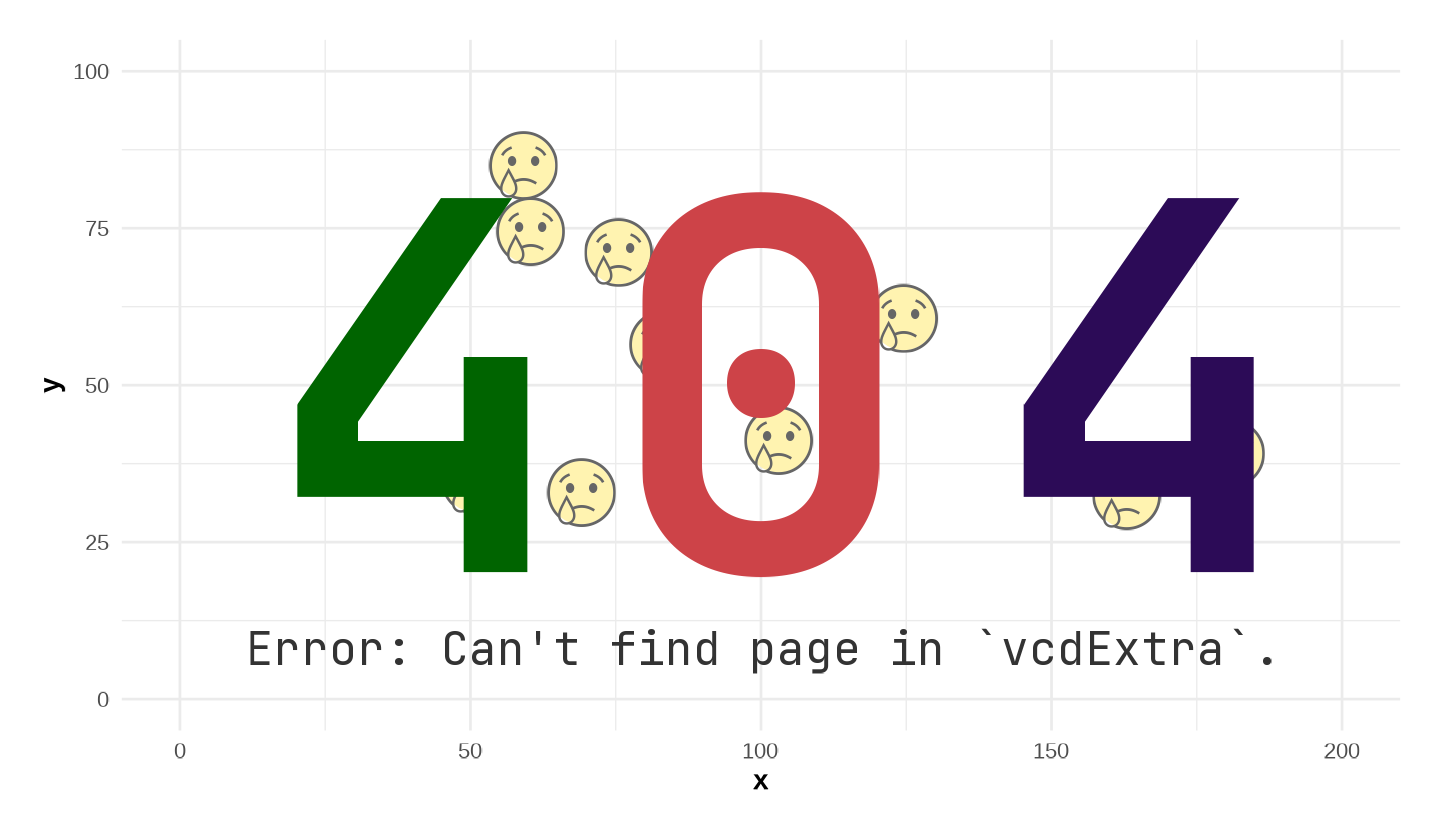
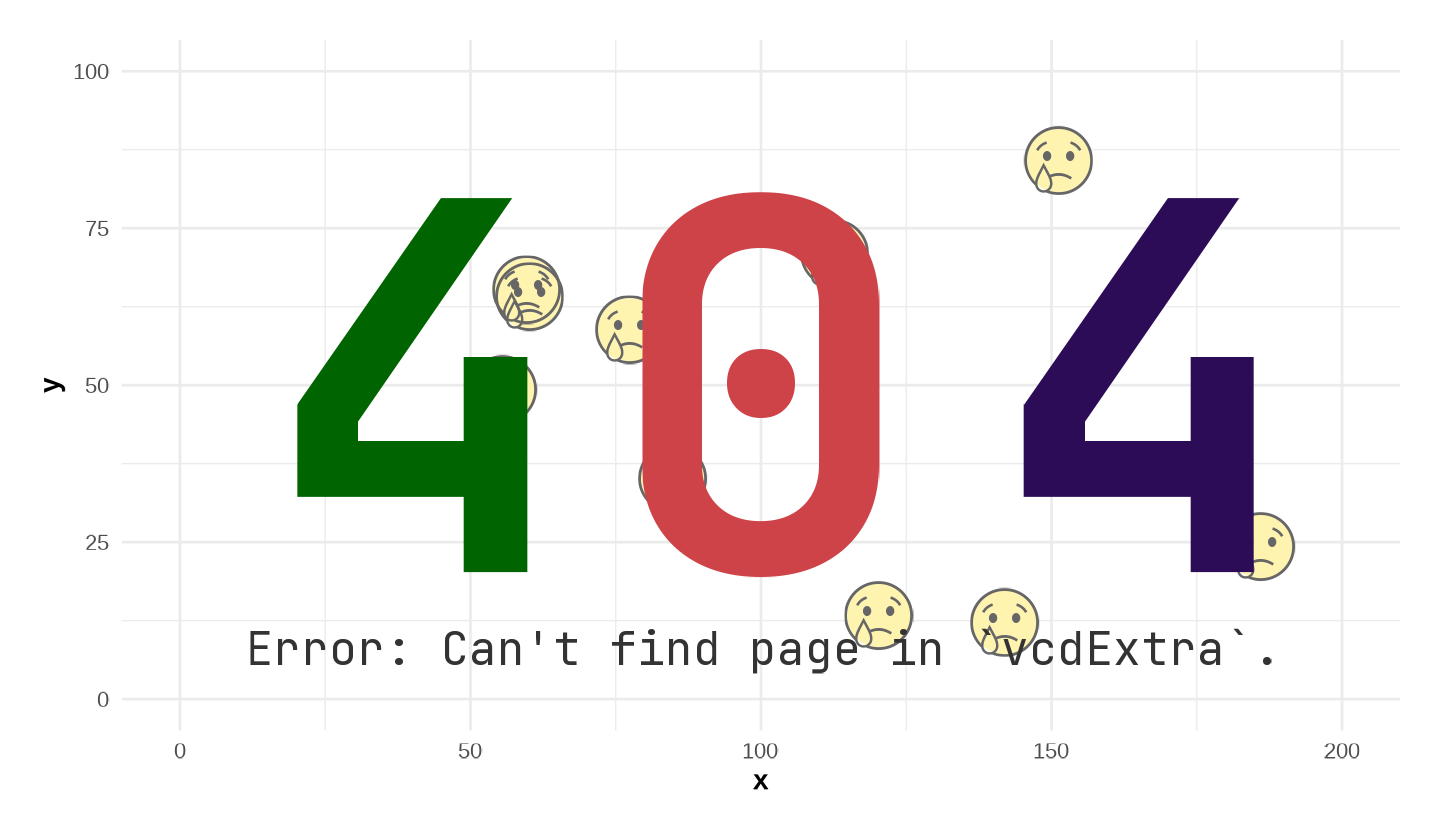
Fix 404 page ordering bug: pkgdown_404_install() now runs init_site()
pkgdown::build_home()/build_404() were found to overwrite docs/404.html
regardless of the .github/404.md marker, so the custom page only stuck
if pkgdown::init_site() ran afterward. Now done automatically at the
end of pkgdown_404_install() (found while installing this in HistData).

diff --git a/docs/404.html b/docs/404.html
@@ -1,9 +1,8 @@
 <!DOCTYPE html>
 <html lang="en">
 <head>
-<meta http-equiv="Content-Type" content="text/html; charset=UTF-8">
 <meta charset="utf-8">
-<title>Page not found · vcdExtra</title>
+<title>Page not found &middot; vcdExtra</title>
 <style>
   body {
     margin: 0;
@@ -26,6 +25,7 @@
 </style>
 </head>
 <body>
-  <img src="https://friendly.github.io/vcdExtra/404.png" alt="404 - page not found"><a href="https://friendly.github.io/vcdExtra/index.html">Take me home</a>
+  <img src="404.png" alt="404 - page not found">
+  <a href="index.html">Take me home</a>
 </body>
 </html>
